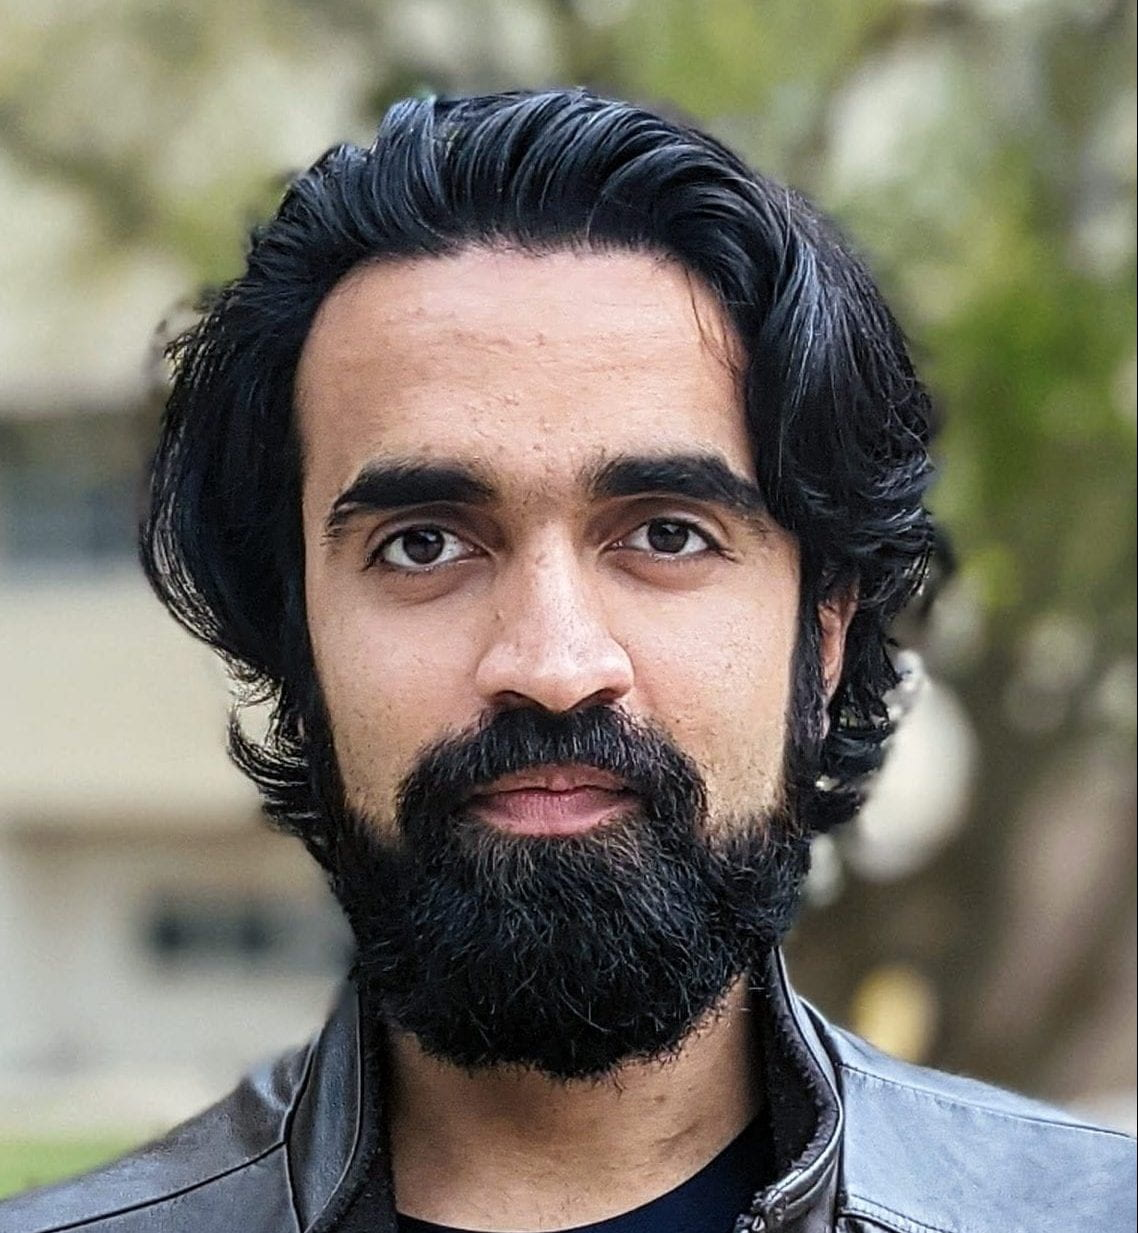
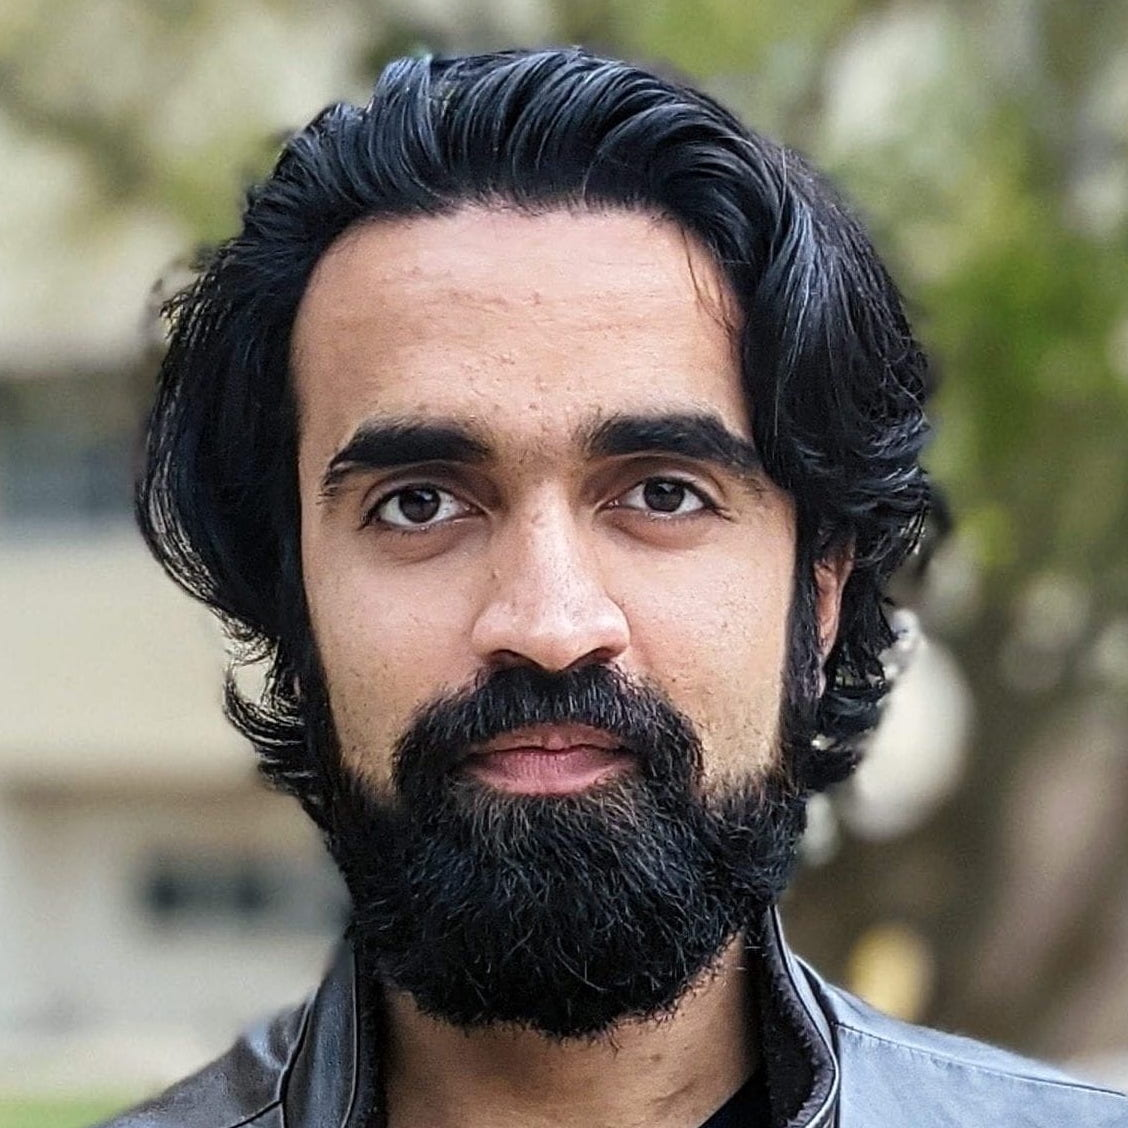
Fixed Images and uploaded articles

diff --git a/layouts/index.html b/layouts/index.html
@@ -52,5 +52,61 @@
       {{ end }}
 
       </div>
+
+
   {{ end }}
+
+  {{/* Define a section to pull recent posts from. For Hugo 0.20 this will default to the section with the most number of pages. */}}
+  {{ $mainSections := slice "Publications" }}
+  {{/* Create a variable with that section to use in multiple places. */}}
+  {{ $section := where .Site.RegularPages "Section" "in" $mainSections }}
+  {{/* Check to see if the section is defined for ranging through it */}}
+  {{ $section_count := len $section }}
+  {{ if ge $section_count 1 }}
+    {{/* Derive the section name  */}}
+    {{ $section_name := index (.Site.Params.mainSections) 0 }}
+
+    <div class="pa3 pa4-ns w-100 w-70-ns center">
+      {{/* Use $section_name to get the section title. Use "with" to only show it if it exists */}}
+       {{ with .Site.GetPage "section" $section_name }}
+          <h1 class="flex-none">
+            Recent Publications, Papers, and News
+          </h1>
+        {{ end }}
+
+      {{ $n_posts := $.Param "recent_posts_number" | default 3 }}
+
+      <section class="w-100 mw8">
+        {{/* Range through the first $n_posts items of the section */}}
+        {{ range (first $n_posts $section) }}
+          <div class="relative w-100 mb4">
+            {{ partial "summary-with-image.html" . }}
+          </div>
+        {{ end }}
+      </section>
+
+      {{ if ge $section_count (add $n_posts 1) }}
+      <section class="w-100">
+        <h1 class="f3">{{ i18n "more" }}</h1>
+        {{/* Now, range through the next four after the initial $n_posts items. Nest the requirements, "after" then "first" on the outside */}}
+        {{ range (first 4 (after $n_posts $section))  }}
+          <h2 class="f5 fw4 mb4 dib mr3">
+            <a href="{{ .Permalink }}" class="link black dim">
+              {{ .Title }}
+            </a>
+          </h2>
+        {{ end }}
+
+        {{/* As above, Use $section_name to get the section title, and URL. Use "with" to only show it if it exists */}}
+        {{ with .Site.GetPage "section" $section_name }}
+          <a href="{{ .Permalink }}" class="link db f6 pa2 br3 bg-mid-gray white dim w4 tc">{{ i18n "allTitle" . }}</a>
+        {{ end }}
+        </section>
+      {{ end }}
+
+      </div>
+
+
+  {{ end }}
+
 {{ end }}

diff --git a/layouts/Background/list.html b/layouts/Background/list.html
@@ -18,7 +18,7 @@
       {{/* Use $section_name to get the section title. Use "with" to only show it if it exists */}}
        {{ with .Site.GetPage "section" $section_name }}
           <h1 class="flex-none">
-            Recent Papers
+            Recent Publications, Papers, and News
           </h1>
         {{ end }}
 

diff --git a/layouts/Publications/list.html b/layouts/Publications/list.html
@@ -22,7 +22,7 @@
           </h1>
         {{ end }}
 
-      {{ $n_posts := $.Param "recent_posts_number" | default 3 }}
+      {{ $n_posts := $.Param "recent_posts_number" | default 20 }}
 
       <section class="w-100 mw8">
         {{/* Range through the first $n_posts items of the section */}}

diff --git a/content/Publications/Press/Aditi_Sheshadri_Highlight.md b/content/Publications/Press/Aditi_Sheshadri_Highlight.md
@@ -1,0 +1,24 @@
+---
+date: 2022-02-21
+description: " Stanford University School of Earth, Energy, and Environmental Science "
+featured_image: "/images/schools/Stanford-University-red.png"
+title: "PI highlight: Aditi Sheshadri"
+title2: " PI Highlight: Aditi Sheshadri"
+---
+#### Written by Meaghan Boehm
+Aditi Sheshadri, based at Stanford University, is DataWave’s lead PI. Prior to DataWave, Sheshadri studied atmospheric dynamics involving the jetstream and the polar vortex. Using this background, Sheshadri took on the role of Coordinating PI and Head of Task 1: Loon Observations and Gravity Wave Momentum Flux Estimates. She works with her group to analyze previously untouched high resolution Loon balloon data with the goal of integrating the data into climate model’s parameterizations of gravity waves.
+<!--more-->
+
+  Sheshadri's leading motivation for this project was the desire to develop more accurate climate models for predicting climate change. In fact, her excitement for this project stems from the Loon data observations, as they are a source of unprecedented high resolution (not to mention free) data for her group to use. With gravity wave research being an “underserved area in which climate model accuracy could be drastically improved”, Sheshadri worked to build a team with expertise in regional and global simulations of high resolution models of gravity waves, balloon observations, and those from large climate modeling centers. She hopes that by involving highly qualified international researchers, the project can benefit from diverse input into gravity wave parameterization and climate model enhancement.
+
+  Within Sheshadri’s group (including Brian Green, Laura Mansfield, Marshall Borrus, and Catherine Wilka), tasks have been strategically divided to analyze the Loon data observations. Green is using wavelet methods to identify momentum fluxes associated with the gravity waves, while others are focusing on upper atmospheric mixing and machine learning. Through these tasks, the ultimate goal for Sheshadri’s group is to generate gravity wave parameterizations that are accurate, computationally cheap, and constrained by the observation data and high resolution output.
+
+  As a result of DataWave, Sheshadri believes that within atmospheric dynamics gravity waves will be defined with a greater importance for the scientific community. This is especially significant when addressing the momentum budget of the jetstream, the variability of gravity waves, the importance of gravity wave generation and propagation on setting the large scale structure of the atmosphere, and the importance of gravity wave estimates on the change in climate. Currently, Sheshadri is teaching a class, Climate Models and Data, in which students come from all different disciplines and backgrounds who are interested in climate models, as understanding climate change is crucial in decision making for other fields of work. For this reason Sheshadri believes that any work that moves towards increasing accuracy of climate model projections and estimating uncertainties of projections has wide ranging impacts on the scientific and non-scientific community alike.
+
+  In the last six months, challenges in projecting horizontal propagation of gravity waves have arisen in Sheshadri’s group because most climate models only permit waves to propagate in the vertical dimension. In response, the group seeks to use high resolution model output and balloon observations to constrain, inform, and improve the lower resolution climate models that currently exist. They are also working with machine learning to integrate the horizontal propagation of these gravity waves into these models.
+
+  Sheshadri hopes this project “will lead to implementable changes into state of the art climate models”, as well as the generation of  “observationally constrained estimates” of gravity waves. However, the ultimate goal of the project is to generate a paradigm shift in the way global climate model centers represent gravity waves.
+
+For more information on Sheshadri’s work, please see the linked publications [here](https://profiles.stanford.edu/aditi-sheshadri?tab=publications).
+
+Written by Meaghan Boehm from Williams College, who interned with DataWave in the winter of 2021.

diff --git a/content/Publications/Papers/QBO_Sensitivity_Gerber.md b/content/Publications/Papers/QBO_Sensitivity_Gerber.md
@@ -1,0 +1,20 @@
+---
+date: 2021-10-14
+description: " "
+featured_image: "/images/Data_Images/Gerber_QBO_21.png"
+title: "A QBO cookbook: Sensitivity of the Quasi-Biennial Oscillation to resolution, resolved waves, and parameterized gravity waves"
+title2: " "
+---
+## Authors:
+Chaim I. Garfinkel, ***Edwin P. Gerber***, ***Ofer Shamir***, Jian Rao, Martin Jucker, Ian White, Nathan Paldor
+
+[Read the full paper here](https://agupubs.onlinelibrary.wiley.com/doi/abs/10.1029/2021MS002568)
+## Abstract:
+The most prominent mode of variability in the tropical stratosphere is the quasi-biennial oscillation (QBO), characterized by easterly and westerly winds alternating sign every 14 months. Only relatively recently have comprehensive models begun to simulate a QBO spontaneously, and even in these models the representation of the QBO typically suffers from biases. Here we elucidate the sensitivities of the QBO to a wide range of model parameters, and explore how these parameters affect the QBO behavior. We expect that these results will be helpful for improving the QBO in more comprehensive models.
+<!--more-->
+An intermediate complexity moist General Circulation Model is used to investigate the sensitivity of the Quasi-Biennial Oscillation (QBO) to resolution, diffusion, tropical tropospheric waves, and parameterized gravity waves. Finer horizontal resolution is shown to lead to a shorter period, while finer vertical resolution is shown to lead to a slower period and to a larger amplitude in the lowermost stratosphere. More scale-selective diffusion leads to a faster and stronger QBO, while enhancing the sources of tropospheric stationary wave activity leads to a weaker QBO. In terms of parameterized gravity waves, broadening the spectral width of the source function leads to a longer period and a stronger amplitude although the amplitude effect saturates when the half-width exceeds -25m/s. A stronger gravity wave source stress leads to a faster and stronger QBO, and a higher gravity wave launch level leads to a stronger QBO. All of these sensitivities are shown to result from their impact on the resultant wave-driven momentum torque in the tropical stratosphere. Atmospheric models have struggled to accurately represent the QBO, particularly at moderate resolutions ideal for long climate integrations. In particular, capturing the amplitude and penetration of QBO anomalies into the lower stratosphere (which has been shown to be critical for the tropospheric impacts) has proven a challenge. The results provide a recipe to generate and/or improve the simulation of the QBO in an atmospheric model.
+
+## Key Points:
+1. Sensitivity of the QBO to resolution, dissipation, wave forcing, and parameterized gravity waves is explored in a single framework.
+2. The QBO period can be tuned independently of its amplitude, but the vertical structure (particularly at lower levels) is harder to capture.
+3. The influence of factors on the QBO can be related to their impact on wave-induced momentum fluxes in the deep tropics.

diff --git a/content/Publications/Papers/Lott_GWP_Realism.md b/content/Publications/Papers/Lott_GWP_Realism.md
@@ -1,0 +1,20 @@
+---
+date: 2021-10-05
+description: " "
+featured_image: "/images/Data_Images/Lott_Realism.png"
+title: "Can we improve the realism of gravity wave parameterizations by imposing sources at all altitudes in the atmosphere?"
+title2: " "
+---
+## Authors:
+B Ribstein, C Millet, ***F Lott***, A de la Cámara
+
+[Read the full paper here](https://hal.archives-ouvertes.fr/hal-03366244)
+## Abstract:
+Gravity waves are fluctuations in the atmosphere (seen in the temperature, wind velocity, and pressure fields) that transport energy and momentum from their sources in the troposphere and middle atmosphere to their sinks in the middle atmosphere. This way they exert a profound influence on the global circulation. Due to their relative small spatial scales, atmospheric general circulation models do not explicitly resolve these waves, and their effects on the circulation resolved by the model need to be parameterized. Parameterizations of gravity waves generated by fronts and flow imbalances typically assume that wave sources are at a certain vertical level in the troposphere, which is easy to implement but neglects the fact that these processes can occur at all altitudes in the atmosphere. In this study, we explore to which extent parameterizations of gravity wave due to fronts and flow imbalances can be improved by allowing waves to be emitted from all model levels. Our results show evidence of modest corrections of some model biases, and a clear improvement in the parameterized gravity waves energy spectra.
+<!--more-->
+A multiwave non-orographic gravity waves (GWs) scheme is adapted to represent waves of small intrinsic phase speed, inertial waves, and wave emission from all altitudes. This last change removes the launching altitude parameter, an arbitrary parameter systematically used in GW schemes. In offline calculations using reanalysis fields, these changes impose larger amplitude saturated waves everywhere in the middle atmosphere, which produces more realistic GW vertical spectra than in previous configurations. The same scheme, tested online in the Laboratoire de Meteorologie Dynamique Zoom (LMDz) general circulation model, performs at least as well as the operational non-orographic GW scheme. Some modest benefits are seen, for instance, in the equatorial tilt with altitude of the winter jets in the middle atmosphere. Although the scheme includes the effects of inertial waves, which are detected in the mesosphere by different observational platforms, the configuration that gives a reasonable climatology in LMDz hinders their vertical propagation and limits their presence at mesospheric altitudes.
+
+## Key Points
+1. Non-orographic gravity wave parameterization is improved by including inertial waves and waves sources at all model levels.
+2. Parameterized energy spectrum becomes much closer to observations.
+3. Global model with the new parameterization performs well, some model biases are modestly alleviated.

diff --git a/content/Publications/Papers/Modeled_Mountain_Waves_Kruse.md b/content/Publications/Papers/Modeled_Mountain_Waves_Kruse.md
@@ -1,0 +1,15 @@
+---
+date: 2022-01-05
+description: " "
+featured_image: "/images/Data_Images/Kruse_MW.png"
+title: "Observed and Modeled Mountain Waves from the Surface to the Mesosphere Near the Drake Passage"
+title2: " "
+---
+## Authors:
+***Christopher G. Kruse***, ***M. Joan Alexander***, Lars Hoffmann, ***Annelize van Niekerk***, Inna Polichtchouk, Julio T. Bacmeister, Laura Holt, ***Riwal Plougonven***, Petr Šácha, Corwin Wright, Kaoru Sato, Ryosuke Shibuya, Sonja Gisinger, Manfred Ern, Catrin I. Meyer, and Olaf Stein
+
+[Read the full paper here](https://journals.ametsoc.org/view/journals/atsc/aop/JAS-D-21-0252.1/JAS-D-21-0252.1.xml)
+## Abstract:
+Four state-of-the-science numerical weather prediction (NWP) models were used to perform mountain wave- (MW) resolving hind-casts over the Drake Passage of a 10-day period in 2010 with numerous observed MW cases. The Integrated Forecast System (IFS) and the Icosahedral Nonhydrostatic (ICON) model were run at Δx ≈ 9 and 13 km globally. TheWeather Research and Forecasting (WRF) model and the Met Office Unified Model (UM) were both configured with a Δx = 3 km regional domain. All domains had tops near 1 Pa (z ≈ 80 km). These deep domains allowed quantitative validation against Atmospheric InfraRed Sounder (AIRS) observations, accounting for observation time, viewing geometry, and radiative transfer.
+<!--more-->
+All models reproduced observed middle-atmosphere MWs with remarkable skill. Increased horizontal resolution improved validations. Still, all models underrepresented observed MW amplitudes, even after accounting for model effective resolution and instrument noise, suggesting even at Δx ≈ 3 km resolution, small-scale MWs are under-resolved and/or over-diffused. MWdrag parameterizations are still necessary in NWP models at current operational resolutions of Δx ≈ 10 km. Upper GW sponge layers in the operationally configured models significantly, artificially reduced MW amplitudes in the upper stratosphere and mesosphere. In the IFS, parameterized GW drags partly compensated this deficiency, but still, total drags were ≈ 6 time smaller than that resolved at Δx ≈ 3 km. Meridionally propagating MWs significantly enhance zonal drag over the Drake Passage. Interestingly, drag associated with meridional fluxes of zonal momentum were important; not accounting for these terms results in a drag in the wrong direction at and below the polar night jet.

diff --git a/content/Publications/Papers/Ashesh_Pedram_Bayesian.md b/content/Publications/Papers/Ashesh_Pedram_Bayesian.md
@@ -1,0 +1,15 @@
+---
+date: 2021-10-01
+description: " "
+featured_image: "/images/Data_Images/Ashesh_Pedram.png"
+title: "Closed-form discovery of structural errors in models of chaotic systems by integrating Bayesian sparse regression and data assimilation"
+title2: " "
+---
+## Authors:
+Rambod Mojgani, ***Ashesh Chattopadhyay***, and ***Pedram Hassanzadeh***
+
+[Read the full paper here](https://arxiv.org/abs/2110.00546)
+## Abstract:
+Models used for many important engineering and natural systems are imperfect. The discrepancy between the mathematical representations of a true physical system and its imperfect model is called the model error. These model errors can lead to substantial difference between the numerical solutions of the model and the observations of the system, particularly in those involving nonlinear, multi-scale phenomena. Thus, there is substantial interest in reducing model errors, particularly through understanding their physics and sources and leveraging the rapid growth of observational data. Here we introduce a framework named MEDIDA: Model Error Discovery with Interpretability and Data Assimilation.
+<!--more-->
+MEDIDA only requires a working numerical solver of the model and a small number of noise-free or noisy sporadic observations of the system. In MEDIDA, first the model error is estimated from differences between the observed states and model-predicted states (the latter are obtained from a number of one-time-step numerical integrations from the previous observed states). If observations are noisy, a data assimilation (DA) technique such as ensemble Kalman filter (EnKF) is first used to provide a noise-free analysis state of the system, which is then used in estimating the model error. Finally, an equation-discovery technique, such as the relevance vector machine (RVM), a sparsity-promoting Bayesian method, is used to identify an interpretable, parsimonious, closed-form representation of the model error. Using the chaotic Kuramoto-Sivashinsky (KS) system as the test case, we demonstrate the excellent performance of MEDIDA in discovering different types of structural/parametric model errors, representing different types of missing physics, using noise-free and noisy observations.

diff --git a/content/Publications/Papers/Lott_pt_II.md b/content/Publications/Papers/Lott_pt_II.md
@@ -1,0 +1,15 @@
+---
+date: 2021-04-01
+description: " "
+featured_image: "/images/Data_Images/Lott_II.png"
+title: "Mountain Waves Produced by a Stratified Shear Flow with a Boundary Layer. Part II: Form Drag, Wave Drag, and Transition from Downstream Sheltering to Upstream Blocking"
+title2: " "
+---
+## Authors:
+***François Lott***, Bruno Deremble, and Clément Soufflet
+
+[Read the full paper here](https://journals.ametsoc.org/view/journals/atsc/78/4/JAS-D-20-0144.1.xml?tab_body=pdf)
+## Abstract:
+The nonhydrostatic version of the mountain flow theory presented in Part I is detailed. In the near-neutral case, the surface pressure decreases when the flow crosses the mountain to balance an increase in surface friction along the ground. This produces a form drag that can be predicted qualitatively. When stratification increases, internal waves start to control the dynamics and the drag is due to upward-propagating mountain waves as in Part I. The reflected waves nevertheless add complexity to the transition.
+<!--more-->
+First, when stability increases, upward-propagating waves and reflected waves interact destructively and low-drag states occur. When stability increases further, the interaction becomes constructive and high-drag states are reached. In very stable cases, the reflected waves do not affect the drag much. Although the drag gives a reasonable estimate of the Reynolds stress, its sign and vertical profile are profoundly affected by stability. In the near-neutral case, the Reynolds stress in the flow is positive, with a maximum around the top of the inner layer, decelerating the large-scale flow in the inner layer and accelerating it above. In the more stable cases, on the contrary, the large-scale flow above the inner layer is decelerated as expected for dissipated mountain waves. The structure of the flow around the mountain is also strongly affected by stability: it is characterized by nonseparated sheltering in the near-neutral cases, by upstream blocking in the very stable case, and at intermediate stability by the presence of a strong but isolated wave crest immediately downstream of the ridge.

diff --git a/content/Publications/Papers/Lott_pt_III.md b/content/Publications/Papers/Lott_pt_III.md
@@ -1,0 +1,17 @@
+---
+date: 2021-10-04
+description: " "
+featured_image: "/images/Data_Images/Lott_III.png"
+title: "Mountain waves produced by a stratified shear flow with
+a boundary layer. Part III: Trapped lee waves and
+horizontal momentum transport"
+title2: " "
+---
+## Authors:
+Clément Soufflet, ***François Lott***, and Bruno Deremble
+
+[Read the full paper here](https://hal.archives-ouvertes.fr/hal-03365418/)
+## Abstract:
+The boundary layer theory for non-hydrostatic mountain waves presented in Part II is extended to include upward propagating gravity waves and trapped lee waves. To do so, the background wind with constant shear used in Part II is smoothly curved and become constant above a "boundary-layer" height which is much larger than the inner layer scale.
+<!--more-->
+As in Part II, the pressure drag stays well predicted by a gravity wave drag when the surface Richardson number > 1 and by a form drag when < 1. As in Part II also, the sign of the Reynolds stress is predominantly positive in the near neutral case (< 1) and negative in the stable case (> 1) but situations characterized by positive and negative Reynolds stress now combine when ∼ 1. In the latter case, and even when dissipation produces positive stress in the lower part of the inner layer, a property we associated with form drag in Part II, negative stresses are quite systematically found aloft. These negative stresses are due to upward propagating waves and trapped lee waves, the first being associated with negative vertical flux of pseudo-momentum aloft the inner layer, the second to negative horizontal flux of pseudo-momentum downstream the obstacle. These results suggest that the significance of mountain waves for the large scale flow is more substantial than expected and when compared to the enhancement of the boundary layer form drag by the mountain.

diff --git a/content/_index.md b/content/_index.md
@@ -1,11 +1,11 @@
 ---
 title: "DataWave: Collaborative Gravity Wave Research"
-featured_image: '/images/gravity_waves_big.jpg'
+featured_image: '/images/button_image.jpg'
 description: "An international consortium working on improving our understanding and representation of gravity waves"
 ---
 
 Atmospheric gravity waves (GWs) play an important role in the exchange of momentum between the Earth’s surface and the free atmosphere. Uncertainties in gravity wave momentum transport limit our ability to predict the response of the tropospheric and stratospheric circulation to global warming and impact subseasonal-to-seasonal forecasts. Current state-of-the-art parameterizations are severely limited by computational necessity and the scarcity of observations.
- 
+
 The DataWave project is focused on improving our modeling capability for gravity waves and the large scale circulation, and particularly to lead to novel observationally constrained and data-driven gravity wave parameterization schemes.
 
 ## Main Objectives

diff --git a/content/Publications/Papers/Seasonal_Latitudinal_Variability.md b/content/Publications/Papers/Seasonal_Latitudinal_Variability.md
@@ -5,6 +5,9 @@ featured_image: "/images/Data_Images/Seasonal.png"
 title: "Seasonal and Latitudinal Variability of the Gravity Wave Spectrum in the Lower Stratosphere"
 title2: " "
 ---
+## Authors
+Erik A. Lindgren, ***Aditi Sheshadri***, ***Aurélien Podglajen***, Robert W. Carver
+
 [Read the full paper here](https://agupubs.onlinelibrary.wiley.com/doi/abs/10.1029/2020JD032850)
 ## Abstract:
 Superpressure balloon data of unprecedented coverage from Loon LLC is used to investigate the seasonal and latitudinal variability of lower stratospheric gravity waves over the entire intrinsic frequency spectrum. We show that seasonal variability in both gravity wave amplitudes and spectral slopes exist for a wide range of intrinsic frequencies and provide estimates of spectral slopes in five latitudinal regions for all four seasons, in five different frequency windows.
